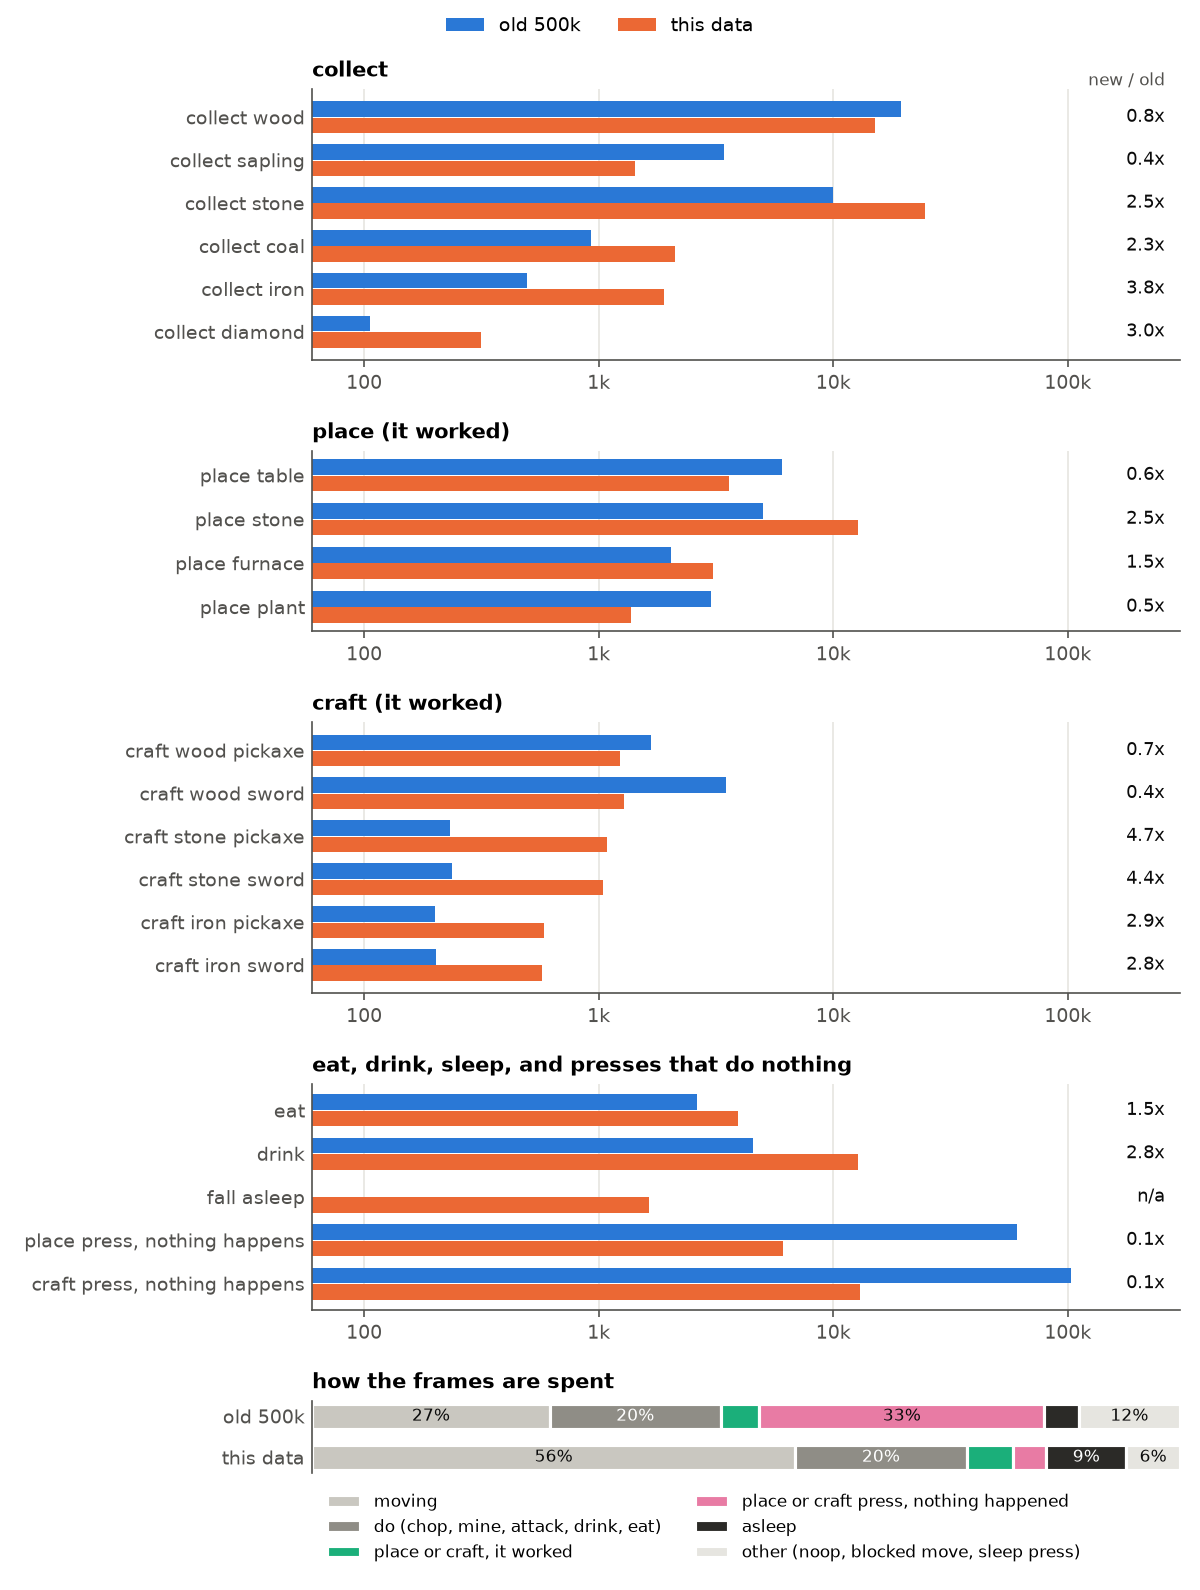
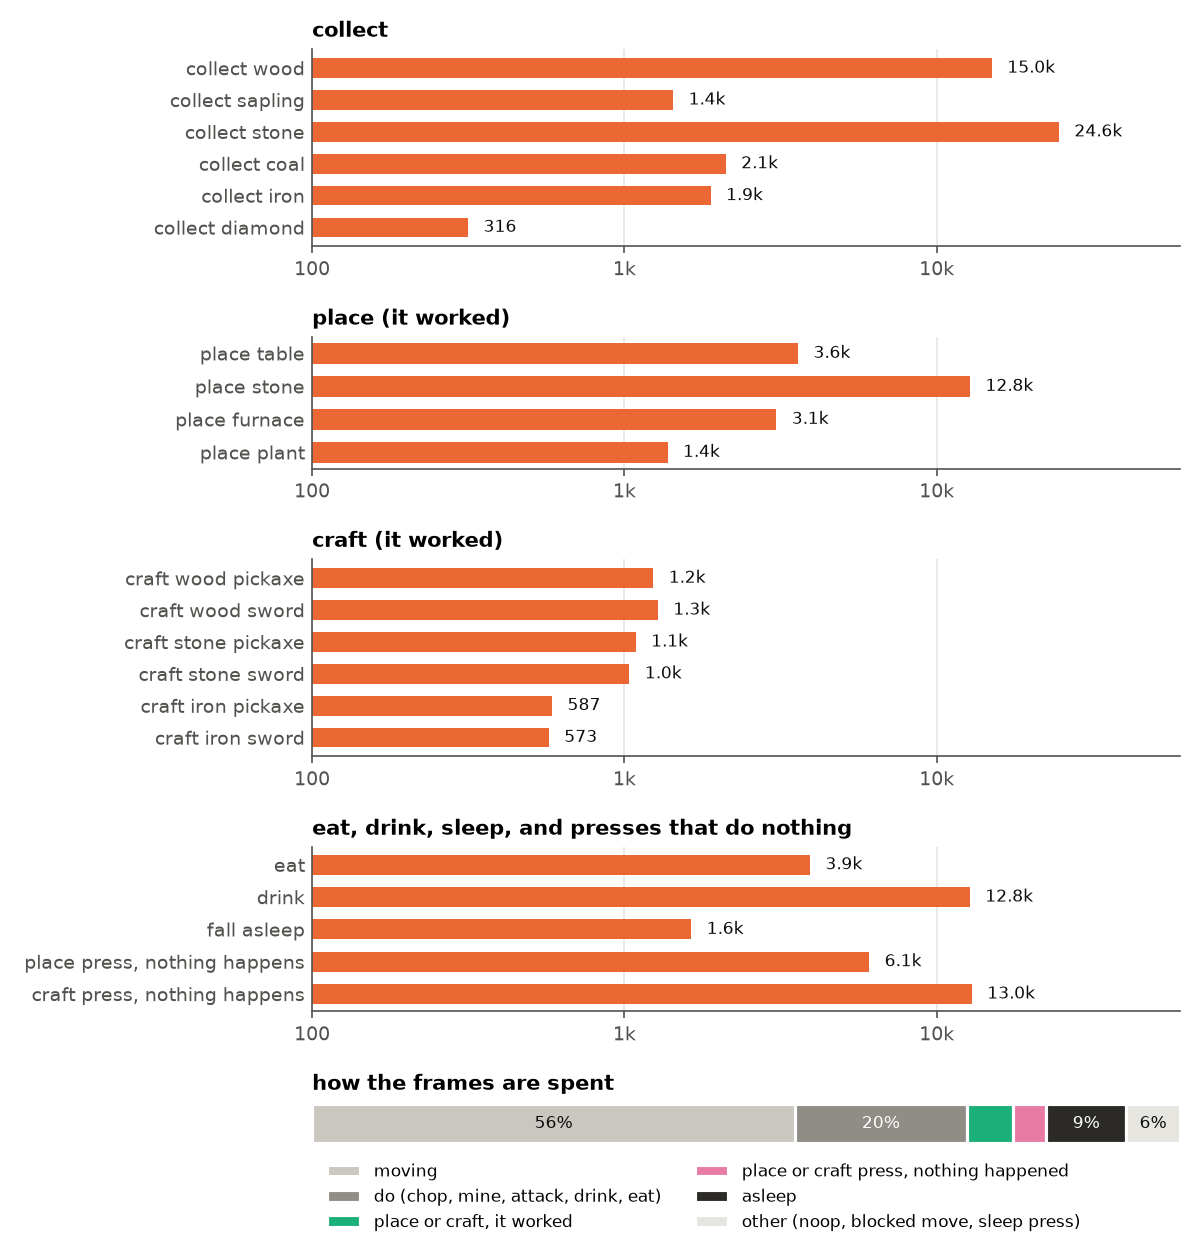
readme for the first release: what it is, play it, the challenge, beat it, in that order; the dataset stands on its own, no comparisons; the game-events and border-cell figures of this data only, with their captions

diff --git a/README.md b/README.md
@@ -12,6 +12,7 @@
 [**Play it in your browser**](https://maharishiva.github.io/tinywmcraft/#play) ·
 [Benchmark](#benchmark) ·
 [How to beat it](program.md) ·
+[Challenge](CHALLENGE.md) ·
 [Checkpoints](https://huggingface.co/maharishiva/tinywmcraft-v3) ·
 [Dataset][HF_DATASET]
 
@@ -24,25 +25,27 @@
 <p align="center"><sub>One held-out episode. Eight real frames prime the model, then it imagines 32 frames from the recorded actions alone.
 Real game left, world model right, the action below.</sub></p>
 
-Every frame in the [browser player](https://maharishiva.github.io/tinywmcraft/#play) is generated by a neural network on your GPU, one keypress at a time.
-tinywmcraft is a 14M-parameter world model of [Craftax](https://github.com/MichaelTMatthews/Craftax), a 2D Minecraft, learned from scratch to predict pixels from previous pixels and actions alone.
+tinywmcraft is a 14M-parameter world model of [Craftax](https://github.com/MichaelTMatthews/Craftax), a 2D Minecraft, learned from scratch to predict the next frame from past frames and actions alone.
+No game engine runs behind the [browser player](https://maharishiva.github.io/tinywmcraft/#play): every frame is generated by the network on your GPU, one action at a time, and every world starts from a first frame the model imagines from noise.
 
-It is also an autoresearch benchmark: train your own in under 10 minutes on one A100 and beat the best score.
-You or your coding agent push the score up, then you play the model you made: walk around inside it, craft, fight, and see what it gets wrong.
+### Play it
+
+Open the [player](https://maharishiva.github.io/tinywmcraft/#play) in Chrome, Edge or Safari 26+ (it needs WebGPU), on a phone too. WASD to move, space to act, the placements and crafts on buttons; a first visit walks you through the first tree and table.
+Walk around, craft, fight, sleep through the night, and see what the model gets wrong: it learned the game from pixels, so it has its own ideas about the rules.
+
+**Challenge, no code and no GPU: get a diamond inside the world model.** With the diamond in the inventory the model draws, press save clip and post the clip on X with a link to this repo, or open an issue here.
+The first verified diamond clip wins a paper copy of Sutton & Barto's *Reinforcement Learning*.
+**Or find the best glitch:** the model hallucinates in funny ways, so post your weirdest clip. Every diamond clip and the best glitches go up on the site with your handle. What counts and how clips are checked: [CHALLENGE.md](CHALLENGE.md).
+
+### Beat it
+
+tinywmcraft is also an autoresearch benchmark: train your own in under 10 minutes on one A100 and beat the best score.
+You or your coding agent push the score up, then you play the model you made: beat iteration 3 and the browser player switches to your model.
 Paste this into Codex, Claude Code or any coding agent:
 
 ```text
 /goal Clone https://github.com/Maharishiva/tinywmcraft, read program.md, get a GPU (a Google Colab A100 works: uv tool install google-colab-cli), beat the best world model under the rules on all three seeds, and only then open a pull request.
 ```
-
-### Additional challenge: no code, no GPU
-
-**Get a diamond inside the world model**, in the [browser player](https://maharishiva.github.io/tinywmcraft/#play), not in the real game.
-With the diamond in your inventory, press save clip, post the clip on X with a link to this repo.
-The score counts every +1 the model hands out and can be farmed, which says more about the model than about you: only a diamond counts.
-**Or find the best glitch:** the model hallucinates in funny ways, so post your weirdest clip.
-The first verified diamond clip wins a paper copy of Sutton & Barto's *Reinforcement Learning*.
-Every diamond clip and the best glitches go up on the site with your handle.
 
 <p align="center">
   <img src="docs/assets/architecture.gif" alt="Frames go through the encoder into 4x4x32 latents; the world model denoises the newest latent in eight flow-matching steps, conditioned on the action; the decoder shows the frame at every step" width="100%">
@@ -63,6 +66,7 @@ No game state, tile labels or pretrained features enter the model.
 | [play_wm.py](play_wm.py) | play inside a trained model with your keyboard |
 | [train_tiny.py](train_tiny.py) | iteration 1, the whole model on one page: about 250 lines, no custom kernels |
 | [program.md](program.md) | rules, the model interface, and how to submit, for people and for coding agents |
+| [CHALLENGE.md](CHALLENGE.md) | the no-code challenge: what counts as a diamond, how to submit a clip, how it is checked |
 
 ## Benchmark
 
@@ -127,28 +131,27 @@ Details, the model interface and how to submit: [program.md](program.md).
 A world model learns the habits of the agents that made its data as if they were rules of the game: if the sword always comes first, it makes a sword when asked for an iron pickaxe; if iron tools always follow place furnace, it makes them whenever the last action was place furnace.
 So four RL agents play (a pixel PPO agent fine-tuned for diamonds drives most episodes), and a behaviour schedule makes their play more varied:
 
-- **Counterexamples to shortcuts:** iron pickaxes made with no sword, crafts at an old furnace, presses that fail (no table, no furnace, a missing ingredient, the wrong pickaxe), repeat placements. The iron sword comes before the iron pickaxe in 67% of the pieces that make both; in the old data, in 190 of 190 episodes.
-- **Deaths of every kind:** 802 in all, by zombies, skeletons, lava (119; the old data had 9), thirst, starvation and exhaustion, some as whole episodes.
-- **Diamonds:** 316 (the old data had 106), 281 of them the first of an episode, some as a whole game from the start to the diamond.
+- **Counterexamples to shortcuts:** iron pickaxes made with no sword, crafts at an old furnace, presses that fail (no table, no furnace, a missing ingredient, the wrong pickaxe), repeat placements. The iron sword comes before the iron pickaxe in 67% of the pieces that make both, not in all of them.
+- **Deaths of every kind:** 802 in all, by zombies, skeletons, lava (119), thirst, starvation and exhaustion, some as whole episodes.
+- **Diamonds:** 316, 281 of them the first of an episode, some as a whole game from the start to the diamond.
 - **Return trips** for memory: about every third step of free play the agent peeks a few tiles away and back, or walks a loop of 4 to 63 tiles, so places leave the view and come back.
 - **Work in daylight:** chopping, mining, placing and crafting that work count as events too, mostly by day, so the trips do not push the work into the night.
 
 Pieces are cut only at quiet moments, never on a reward or an inventory change, and chosen so that events, not frames, are balanced; the cells that come back into view count as events too. The code is in [collect/](collect/).
 
 <p align="center">
-  <img src="docs/assets/logic_data.png" alt="Game events per 500k transitions in the old data and in this data, on a log scale, and how the frames are spent" width="640">
+  <img src="docs/assets/logic_data.png" alt="Game events per 500k transitions on a log scale, in four groups: collect, place that worked, craft that worked, and eat, drink, sleep and presses that do nothing; under them a bar of how the frames are spent" width="640">
 </p>
 
-<p align="center"><sub>Old data and this data, per 500k transitions. Stone and iron tools are made 3-5x as often and diamonds 3x; presses that do nothing fell from a third of the frames to 4%, and the agent moves in 56% of the frames instead of 27%.</sub></p>
+<p align="center"><sub>Game events per 500k transitions, on a log scale: what the agents collect, place and craft when it works, and the presses that do nothing.
+The bar at the bottom is how the frames are spent: moving 56%; chopping, mining, attacking, drinking and eating 20%; placing or crafting that works 5%; presses that do nothing 4%; asleep 9%; other 6%.</sub></p>
 
 <p align="center">
-  <img src="docs/assets/border_cells.png" alt="Cells entering the view at its edge, by frames since they were last on screen, in the old data and in this data, and how often iteration 3 draws a returning cell differently than before" width="760">
+  <img src="docs/assets/border_cells.png" alt="Cells entering the view at its edge, by frames since they were last on screen, and how often iteration 3 draws a returning cell differently than before, by gap, with chance as a dashed line" width="760">
 </p>
 
-<p align="center"><sub>Top two: the cells that enter the view at its edge, by how many frames ago they were last on screen. In this data 2.7x as many come back within 32 frames (7.1% against 2.6%), so memory can be learned and measured.
-Bottom: iteration 3 draws a cell that comes back after a few frames mostly the way it drew it before; from 32 frames on, no better than chance.</sub></p>
-
-On an earlier build of this data, with fewer return trips, the same three recipes score higher (0.338, 0.484 and 0.508), mostly on game logic. On this data they recall more: the recall half of memory is 0.133 for iteration 3, against 0.105 there.
+<p align="center"><sub>Top: the cells that enter the view at its edge, by how many frames ago they were last on screen. White: new, never seen before (5.8%); blue: on screen the frame before (84%); orange: seen, hidden and back, by gap. 7.1% come back within 32 frames, so memory can be learned and measured.
+Bottom: how often iteration 3 draws a returning cell differently than it drew it before, by gap (dashed: chance). 13% after 2-3 frames, 53% at 16-31 frames, and at chance from 32 frames on.</sub></p>
 
 ## Evaluation
 
